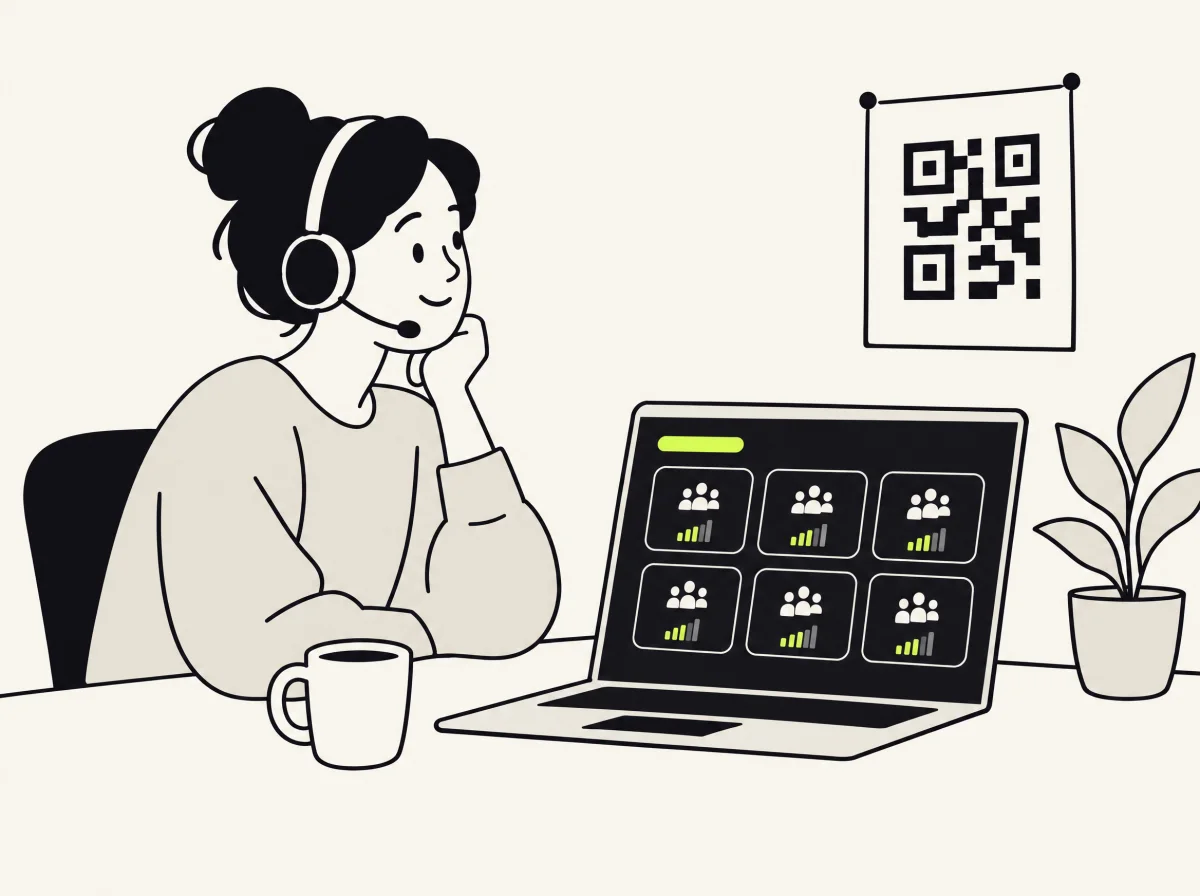
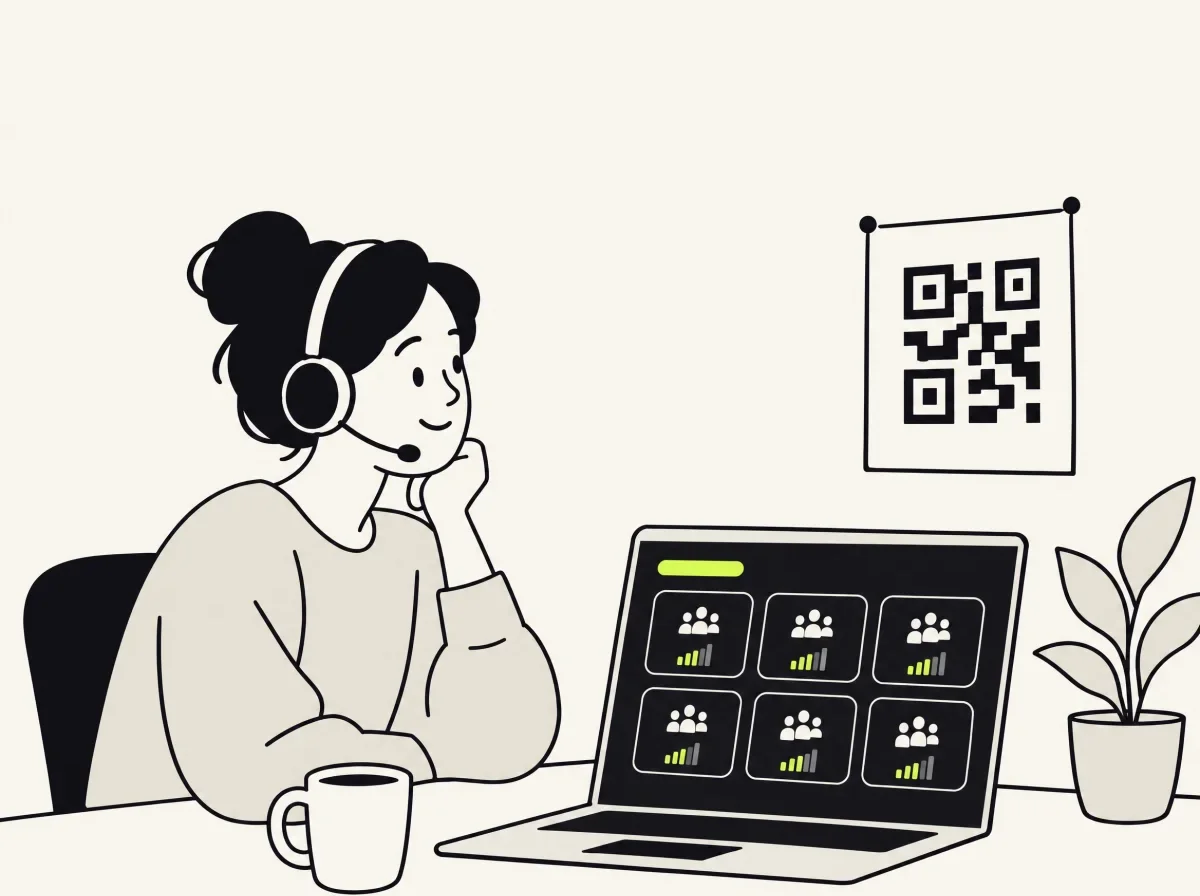
v0.3.0: a level meter per sound source on Just for me, illustrations without empty bands or cut-off legs

diff --git a/site/es/index.html b/site/es/index.html
@@ -23,7 +23,7 @@
   <meta property="og:image:height" content="630" />
   <meta property="og:locale" content="es_AR" />
   <meta name="twitter:card" content="summary_large_image" />
-  <script type="application/ld+json">{"@context":"https://schema.org","@graph":[{"@type":"SoftwareApplication","name":"OpenCaptions","url":"https://opencaptions.kvza.ar/es/","description":"Subtítulos y traducción en vivo para congresos, aulas, sesiones públicas y festivales. Cada persona sigue la charla en su celular, en su idioma. Gratis, de código abierto y en tu propio servidor.","inLanguage":"es","applicationCategory":"MultimediaApplication","applicationSubCategory":"Live captioning and translation","operatingSystem":"macOS, Windows, Linux, Docker","softwareVersion":"0.2.0","offers":{"@type":"Offer","price":"0","priceCurrency":"USD"},"license":"https://opensource.org/licenses/MIT","isAccessibleForFree":true,"downloadUrl":"https://github.com/carraroesteban/opencaptions/releases/latest","codeRepository":"https://github.com/carraroesteban/opencaptions","image":"https://opencaptions.kvza.ar/brand/og.png","screenshot":"https://opencaptions.kvza.ar/media/demo-poster.jpg","featureList":["Subtítulos en vivo en cada celular, sin app","Traducción en tiempo real","Pantalla para el escenario y overlay para streaming","Funciona sin internet con una IA local","Transcripciones y archivos de subtítulos"]},{"@type":"VideoObject","name":"OpenCaptions: una charla subtitulada en vivo, en la pantalla y en el celular","description":"Una charla real de 30 segundos subtitulada en vivo en español por OpenCaptions, en la pantalla del escenario y en un celular del público.","thumbnailUrl":"https://opencaptions.kvza.ar/media/demo-poster.jpg","contentUrl":"https://opencaptions.kvza.ar/media/demo.mp4","uploadDate":"2026-10-05","duration":"PT34S","inLanguage":"es"},{"@type":"Organization","@id":"https://opencaptions.kvza.ar/#org","name":"OpenCaptions","url":"https://opencaptions.kvza.ar/","logo":"https://opencaptions.kvza.ar/brand/icon-512.png","sameAs":["https://github.com/carraroesteban/opencaptions"]},{"@type":"WebSite","@id":"https://opencaptions.kvza.ar/#website","name":"OpenCaptions","url":"https://opencaptions.kvza.ar/","inLanguage":["en","es"],"publisher":{"@id":"https://opencaptions.kvza.ar/#org"}}]}</script>
+  <script type="application/ld+json">{"@context":"https://schema.org","@graph":[{"@type":"SoftwareApplication","name":"OpenCaptions","url":"https://opencaptions.kvza.ar/es/","description":"Subtítulos y traducción en vivo para congresos, aulas, sesiones públicas y festivales. Cada persona sigue la charla en su celular, en su idioma. Gratis, de código abierto y en tu propio servidor.","inLanguage":"es","applicationCategory":"MultimediaApplication","applicationSubCategory":"Live captioning and translation","operatingSystem":"macOS, Windows, Linux, Docker","softwareVersion":"0.3.0","offers":{"@type":"Offer","price":"0","priceCurrency":"USD"},"license":"https://opensource.org/licenses/MIT","isAccessibleForFree":true,"downloadUrl":"https://github.com/carraroesteban/opencaptions/releases/latest","codeRepository":"https://github.com/carraroesteban/opencaptions","image":"https://opencaptions.kvza.ar/brand/og.png","screenshot":"https://opencaptions.kvza.ar/media/demo-poster.jpg","featureList":["Subtítulos en vivo en cada celular, sin app","Traducción en tiempo real","Pantalla para el escenario y overlay para streaming","Funciona sin internet con una IA local","Transcripciones y archivos de subtítulos"]},{"@type":"VideoObject","name":"OpenCaptions: una charla subtitulada en vivo, en la pantalla y en el celular","description":"Una charla real de 30 segundos subtitulada en vivo en español por OpenCaptions, en la pantalla del escenario y en un celular del público.","thumbnailUrl":"https://opencaptions.kvza.ar/media/demo-poster.jpg","contentUrl":"https://opencaptions.kvza.ar/media/demo.mp4","uploadDate":"2026-10-05","duration":"PT34S","inLanguage":"es"},{"@type":"Organization","@id":"https://opencaptions.kvza.ar/#org","name":"OpenCaptions","url":"https://opencaptions.kvza.ar/","logo":"https://opencaptions.kvza.ar/brand/icon-512.png","sameAs":["https://github.com/carraroesteban/opencaptions"]},{"@type":"WebSite","@id":"https://opencaptions.kvza.ar/#website","name":"OpenCaptions","url":"https://opencaptions.kvza.ar/","inLanguage":["en","es"],"publisher":{"@id":"https://opencaptions.kvza.ar/#org"}}]}</script>
   <script>/* light by default; the ◐ button switches and remembers */ let t = 'light'; try { t = JSON.parse(localStorage.getItem('oc.theme')) || t; } catch {} document.documentElement.dataset.theme = t; document.querySelector('meta[name=theme-color]').content = t === 'dark' ? '#111014' : '#FAF8F3';</script>
   <link rel="stylesheet" href="/style.css" />
   <link rel="stylesheet" href="/site.css" />

diff --git a/site/index.html b/site/index.html
@@ -23,7 +23,7 @@
   <meta property="og:image:height" content="630" />
   <meta property="og:locale" content="en_US" />
   <meta name="twitter:card" content="summary_large_image" />
-  <script type="application/ld+json">{"@context":"https://schema.org","@graph":[{"@type":"SoftwareApplication","name":"OpenCaptions","url":"https://opencaptions.kvza.ar/","description":"Live captions and translation for conferences, classrooms, town halls and festivals. Every attendee follows along on their phone, in their own language. Free and open source, self-hosted.","inLanguage":"en","applicationCategory":"MultimediaApplication","applicationSubCategory":"Live captioning and translation","operatingSystem":"macOS, Windows, Linux, Docker","softwareVersion":"0.2.0","offers":{"@type":"Offer","price":"0","priceCurrency":"USD"},"license":"https://opensource.org/licenses/MIT","isAccessibleForFree":true,"downloadUrl":"https://github.com/carraroesteban/opencaptions/releases/latest","codeRepository":"https://github.com/carraroesteban/opencaptions","image":"https://opencaptions.kvza.ar/brand/og.png","screenshot":"https://opencaptions.kvza.ar/media/demo-poster.jpg","featureList":["Live captions on every phone, no app","Real-time translation","Stage screen and livestream overlay","Works offline with a local AI","Transcripts and subtitle files"]},{"@type":"VideoObject","name":"OpenCaptions: a talk captioned live, on the stage screen and on a phone","description":"A real 30-second talk captioned live in Spanish by OpenCaptions, on the stage screen and on a phone in the audience.","thumbnailUrl":"https://opencaptions.kvza.ar/media/demo-poster.jpg","contentUrl":"https://opencaptions.kvza.ar/media/demo.mp4","uploadDate":"2026-10-05","duration":"PT34S","inLanguage":"es"},{"@type":"Organization","@id":"https://opencaptions.kvza.ar/#org","name":"OpenCaptions","url":"https://opencaptions.kvza.ar/","logo":"https://opencaptions.kvza.ar/brand/icon-512.png","sameAs":["https://github.com/carraroesteban/opencaptions"]},{"@type":"WebSite","@id":"https://opencaptions.kvza.ar/#website","name":"OpenCaptions","url":"https://opencaptions.kvza.ar/","inLanguage":["en","es"],"publisher":{"@id":"https://opencaptions.kvza.ar/#org"}}]}</script>
+  <script type="application/ld+json">{"@context":"https://schema.org","@graph":[{"@type":"SoftwareApplication","name":"OpenCaptions","url":"https://opencaptions.kvza.ar/","description":"Live captions and translation for conferences, classrooms, town halls and festivals. Every attendee follows along on their phone, in their own language. Free and open source, self-hosted.","inLanguage":"en","applicationCategory":"MultimediaApplication","applicationSubCategory":"Live captioning and translation","operatingSystem":"macOS, Windows, Linux, Docker","softwareVersion":"0.3.0","offers":{"@type":"Offer","price":"0","priceCurrency":"USD"},"license":"https://opensource.org/licenses/MIT","isAccessibleForFree":true,"downloadUrl":"https://github.com/carraroesteban/opencaptions/releases/latest","codeRepository":"https://github.com/carraroesteban/opencaptions","image":"https://opencaptions.kvza.ar/brand/og.png","screenshot":"https://opencaptions.kvza.ar/media/demo-poster.jpg","featureList":["Live captions on every phone, no app","Real-time translation","Stage screen and livestream overlay","Works offline with a local AI","Transcripts and subtitle files"]},{"@type":"VideoObject","name":"OpenCaptions: a talk captioned live, on the stage screen and on a phone","description":"A real 30-second talk captioned live in Spanish by OpenCaptions, on the stage screen and on a phone in the audience.","thumbnailUrl":"https://opencaptions.kvza.ar/media/demo-poster.jpg","contentUrl":"https://opencaptions.kvza.ar/media/demo.mp4","uploadDate":"2026-10-05","duration":"PT34S","inLanguage":"es"},{"@type":"Organization","@id":"https://opencaptions.kvza.ar/#org","name":"OpenCaptions","url":"https://opencaptions.kvza.ar/","logo":"https://opencaptions.kvza.ar/brand/icon-512.png","sameAs":["https://github.com/carraroesteban/opencaptions"]},{"@type":"WebSite","@id":"https://opencaptions.kvza.ar/#website","name":"OpenCaptions","url":"https://opencaptions.kvza.ar/","inLanguage":["en","es"],"publisher":{"@id":"https://opencaptions.kvza.ar/#org"}}]}</script>
   <script>/* light by default; the ◐ button switches and remembers */ let t = 'light'; try { t = JSON.parse(localStorage.getItem('oc.theme')) || t; } catch {} document.documentElement.dataset.theme = t; document.querySelector('meta[name=theme-color]').content = t === 'dark' ? '#111014' : '#FAF8F3';</script>
   <link rel="stylesheet" href="/style.css" />
   <link rel="stylesheet" href="/site.css" />

diff --git a/public/capture.js b/public/capture.js
@@ -31,7 +31,9 @@ export async function openScreenAudio(ctx) {
 
 /**
  * Start capturing `source`: 'mic', 'screen' (what the computer plays) or 'both'. `onPcm(ArrayBuffer)` gets 100 ms
- * of 16 kHz mono PCM16; `onEnded()` runs when a source goes away (a mic unplugged, "Stop sharing" clicked). Returns { stop(), setGain(g), stream, ctx }.
+ * of 16 kHz mono PCM16; `onEnded()` runs when a source goes away (a mic unplugged, "Stop sharing" clicked).
+ * Returns { stop(), setGain(g), levels(), stream, ctx }; levels() is each source's level now, for a meter per source:
+ * [{ kind: 'screen' | 'mic', db }], the computer's sound first.
  */
 export async function capture({ source, deviceId = '', raw = false, channel = 'mix', gain = 1, onPcm, onEnded }) {
   const ctx = new AudioContext();
@@ -41,15 +43,17 @@ export async function capture({ source, deviceId = '', raw = false, channel = 'm
     const inputs = [];
     const release = () => inputs.forEach((x) => x.stream.getTracks().forEach((tk) => tk.stop()));
     try {
-      if (source === 'screen' || source === 'both') inputs.push(await openScreenAudio(ctx));
-      if (source !== 'screen') inputs.push(await openMic(ctx, { deviceId, raw }));
+      if (source === 'screen' || source === 'both') inputs.push({ kind: 'screen', ...await openScreenAudio(ctx) });
+      if (source !== 'screen') inputs.push({ kind: 'mic', ...await openMic(ctx, { deviceId, raw }) });
       await ctx.audioWorklet.addModule('/pcm-worklet.js');
     } catch (e) { release(); throw e; }
     const node = new AudioWorkletNode(ctx, 'pcm-capture', { processorOptions: { channel, gain } });
-    for (const { src } of inputs) {
+    for (const x of inputs) {
       const level = ctx.createGain();
       level.gain.value = inputs.length > 1 ? 0.7 : 1; // two sources add up: leave headroom so they don't clip
-      src.connect(level).connect(node);
+      x.src.connect(level).connect(node);
+      x.meter = ctx.createAnalyser(); x.meter.fftSize = 2048; x.buf = new Float32Array(2048);
+      x.src.connect(x.meter);
     }
     const stream = new MediaStream(inputs.flatMap((x) => x.stream.getTracks()));
     const mute = ctx.createGain(); mute.gain.value = 0; node.connect(mute).connect(ctx.destination); // keeps the graph pulling
@@ -59,6 +63,12 @@ export async function capture({ source, deviceId = '', raw = false, channel = 'm
     return {
       ctx, stream,
       setGain: (g) => node.port.postMessage({ gain: g }),
+      levels: () => inputs.map(({ kind, meter, buf }) => {
+        meter.getFloatTimeDomainData(buf);
+        let sum = 0;
+        for (const v of buf) sum += v * v;
+        return { kind, db: 20 * Math.log10(Math.sqrt(sum / buf.length) || 1e-6) };
+      }),
       stop: () => { stream.getTracks().forEach((t) => t.stop()); ctx.close(); },
     };
   } catch (e) { ctx.close(); throw e; }

diff --git a/public/pages/me.js b/public/pages/me.js
@@ -6,7 +6,7 @@ import { prefsControls, LANG } from '/i18n.js';
 import { mountIcons } from '/illustrations.js';
 import { ensureSignedIn } from '/signin.js';
 import { keyPanel } from '/connect.js';
-import { capture, levelDb } from '/capture.js';
+import { capture } from '/capture.js';
 import { floatingCaptions } from '/floating.js';
 import { LANGUAGE_CATALOG } from '/languages.js';
 
@@ -180,12 +180,12 @@ async function start() {
     cap = await capture({
       source, deviceId: $('device').value,
       onPcm: (buf) => {
-        $('lvl').style.width = `${Math.max(0, Math.min(100, ((levelDb(buf) + 60) / 60) * 100))}%`;
         if (ingest?.ready) ingest.send(buf); else { pending.push(buf); if (pending.length > 150) pending.shift(); }
       },
       onEnded: () => { stop(); setStatus(t.ended, 'bad'); },
     });
     if (source !== 'screen') listMics();
+    showMeters();
     ingest = new Socket(() => wsUrl('/ws/ingest', { stage: ROOM, kind: 'personal', label: source }), {
       open() { while (pending.length && ingest?.ready) ingest.send(pending.shift()); },
       message(m) {
@@ -199,12 +199,28 @@ async function start() {
     setStatus(e.code === 'no-audio' ? t.noAudio : /denied|NotAllowed|Permission/i.test(`${e.name} ${e.message}`) ? t.denied : e.message, 'bad');
   }
 }
+// A meter per source (Both: the computer's sound and the microphone), to see that each one is heard.
+let meterLoop = 0;
+function showMeters() {
+  const rows = cap.levels().map(({ kind }) => {
+    const row = document.createElement('div');
+    row.innerHTML = `<span>${esc(t[kind])}</span><span class="m"><i></i></span>`;
+    return row;
+  });
+  $('meters').replaceChildren(...rows);
+  const tick = () => {
+    if (!cap) return;
+    cap.levels().forEach(({ db }, i) => { rows[i].querySelector('i').style.width = `${Math.max(0, Math.min(100, ((db + 60) / 60) * 100))}%`; });
+    meterLoop = requestAnimationFrame(tick);
+  };
+  tick();
+}
 function stop() {
   running = false; goLabel();
   cap?.stop(); cap = null;
   ingest?.close(); ingest = null;
   pending.length = 0;
-  $('lvl').style.width = '0';
+  cancelAnimationFrame(meterLoop); $('meters').replaceChildren();
   setStatus(t.idle);
 }
 $('go').onclick = () => (running ? stop() : start());

diff --git a/public/me.html b/public/me.html
@@ -27,8 +27,12 @@
     .seg button { border: 0; border-radius: var(--pill); padding: 7px 14px; background: none; }
     .seg button[aria-checked='true'] { background: var(--primary-bg); color: var(--primary-fg); }
     #go { min-width: 190px; }
-    .meter { width: 120px; height: 8px; border-radius: 4px; background: var(--bg3); overflow: hidden; align-self: center; }
-    .meter i { display: block; height: 100%; width: 0; background: var(--accent); transition: width .1s linear; }
+    /* One meter per source, centered on the Start button's height (the bar aligns its items to the bottom). */
+    #meters { align-self: end; min-height: 42px; display: flex; flex-direction: column; justify-content: center; gap: 6px; }
+    #meters:empty { display: none; }
+    #meters div { display: grid; grid-template-columns: auto 120px; align-items: center; gap: 8px; font-size: 13px; color: var(--fg2); }
+    #meters .m { height: 8px; border-radius: 4px; background: var(--bg3); overflow: hidden; }
+    #meters i { display: block; height: 100%; width: 0; background: var(--accent); transition: width .1s linear; }
     .hint { flex-basis: 100%; margin: 0; font-size: 14px; color: var(--fg2); }
     #ai-box { padding: 14px 16px; border-bottom: 1px solid var(--line); }
     #scroll { flex: 1; overflow-y: auto; padding: 24px 20px 40px; }
@@ -43,7 +47,7 @@
     footer button, footer .btn { padding: 8px 11px; font-size: 15px; }
     footer a.btn { text-decoration: none; }
     #pip[aria-pressed='true'] { background: var(--primary-bg); border-color: var(--primary-bg); color: var(--primary-fg); }
-    @media (max-width: 560px) { .meter { display: none; } #go { min-width: 0; flex: 1; } }
+    @media (max-width: 560px) { #meters { display: none; } #go { min-width: 0; flex: 1; } }
   </style>
 </head>
 <body>
@@ -65,7 +69,7 @@
     <label class="field" id="f-device"><span id="device-label"></span><select id="device"></select></label>
     <label class="field"><span id="to-label"></span><select id="to"></select></label>
     <button class="primary" id="go" type="button"></button>
-    <div class="meter" aria-hidden="true"><i id="lvl"></i></div>
+    <div id="meters" aria-hidden="true"></div>
     <p class="hint" id="hint"></p>
   </section>
 

diff --git a/CHANGELOG.md b/CHANGELOG.md
@@ -4,6 +4,8 @@ All notable changes to this project are documented in this file. The format foll
 
 ## [Unreleased]
 
+## [0.3.0] - 2026-10-05
+
 ### Added
 
 - **The welcome screen asks what you want captions for,** with two big illustrated choices: *For an event* or *Just for me*.
@@ -38,8 +40,9 @@ All notable changes to this project are documented in this file. The format foll
 ### Changed
 
 - **Just for me stays just for you.** The choice is remembered and the app opens straight to your captions. The personal page has **My transcripts** and a quieter **Use it for events** (it asks first) instead of a link to the event dashboard. In personal mode the room list and the transcript library show only your room, never an event's; in event mode your personal room and its transcripts stay private and out of the event's lists.
+- **A level meter for each sound source** on the Just for me page: one for the microphone, one for the computer's sound, and both with **Both**, so you can see each one is heard. The meters now line up with the Start button.
 - **Delete a transcript from its own page** (admin only, which includes anyone on the server computer), so personal users never need the event dashboard.
-- **Sharper website:** every illustration has a 2× version for high-resolution screens (served only to them), and the animated loops are now 1600–1800 px wide instead of 960–1080. Upscaled with Higgsfield; the loops stay seamless.
+- **Sharper website:** every illustration has a 2× version for high-resolution screens (served only to them), and the animated loops are now 1600–1800 px wide instead of 960–1080. Upscaled with Higgsfield; the loops stay seamless. The audience, stage, organizer and Just for me illustrations no longer end in an empty band with cut-off legs.
 - The website's phone mockup has its notch inside the screen, as on a real phone (it sat on the bezel, and turned light in dark mode).
 - The transcript screenshot on the website and in the README shows the current page (line icons, not emoji). `npm run screenshots` retakes it from the real app.
 - Transcript search says "1 match", not "1 matches" (and the same in Spanish and Portuguese).
